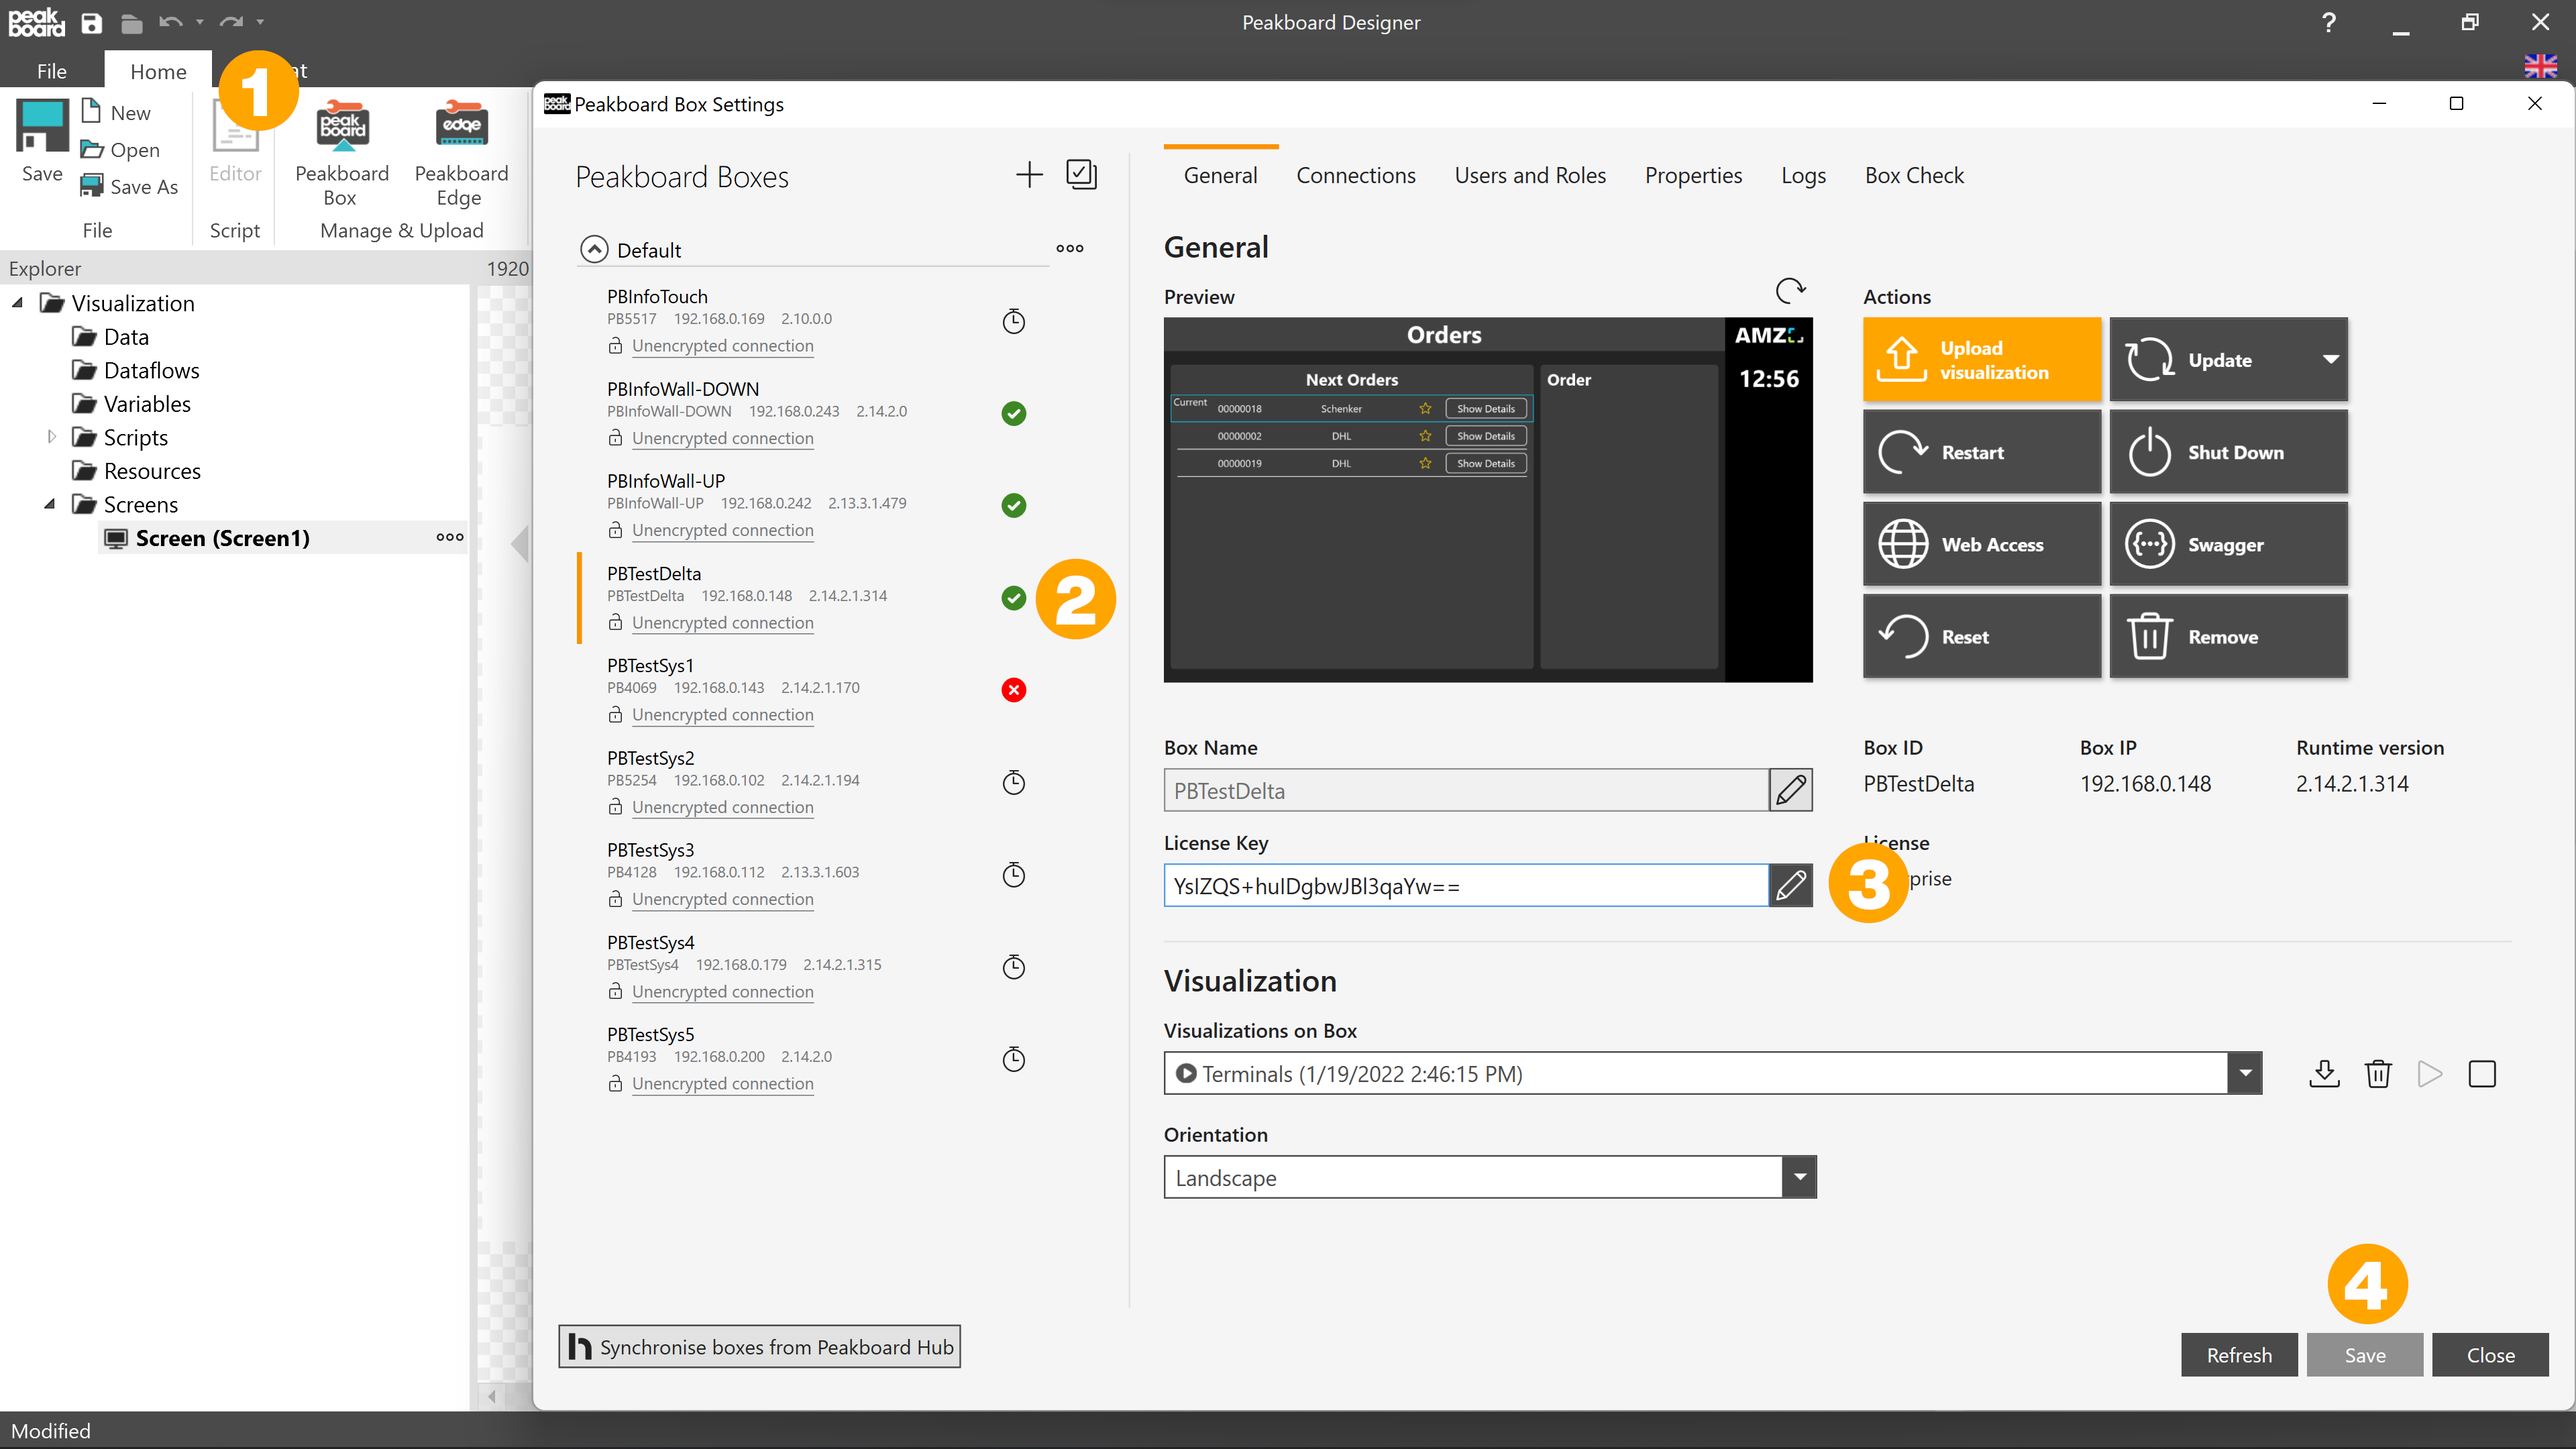
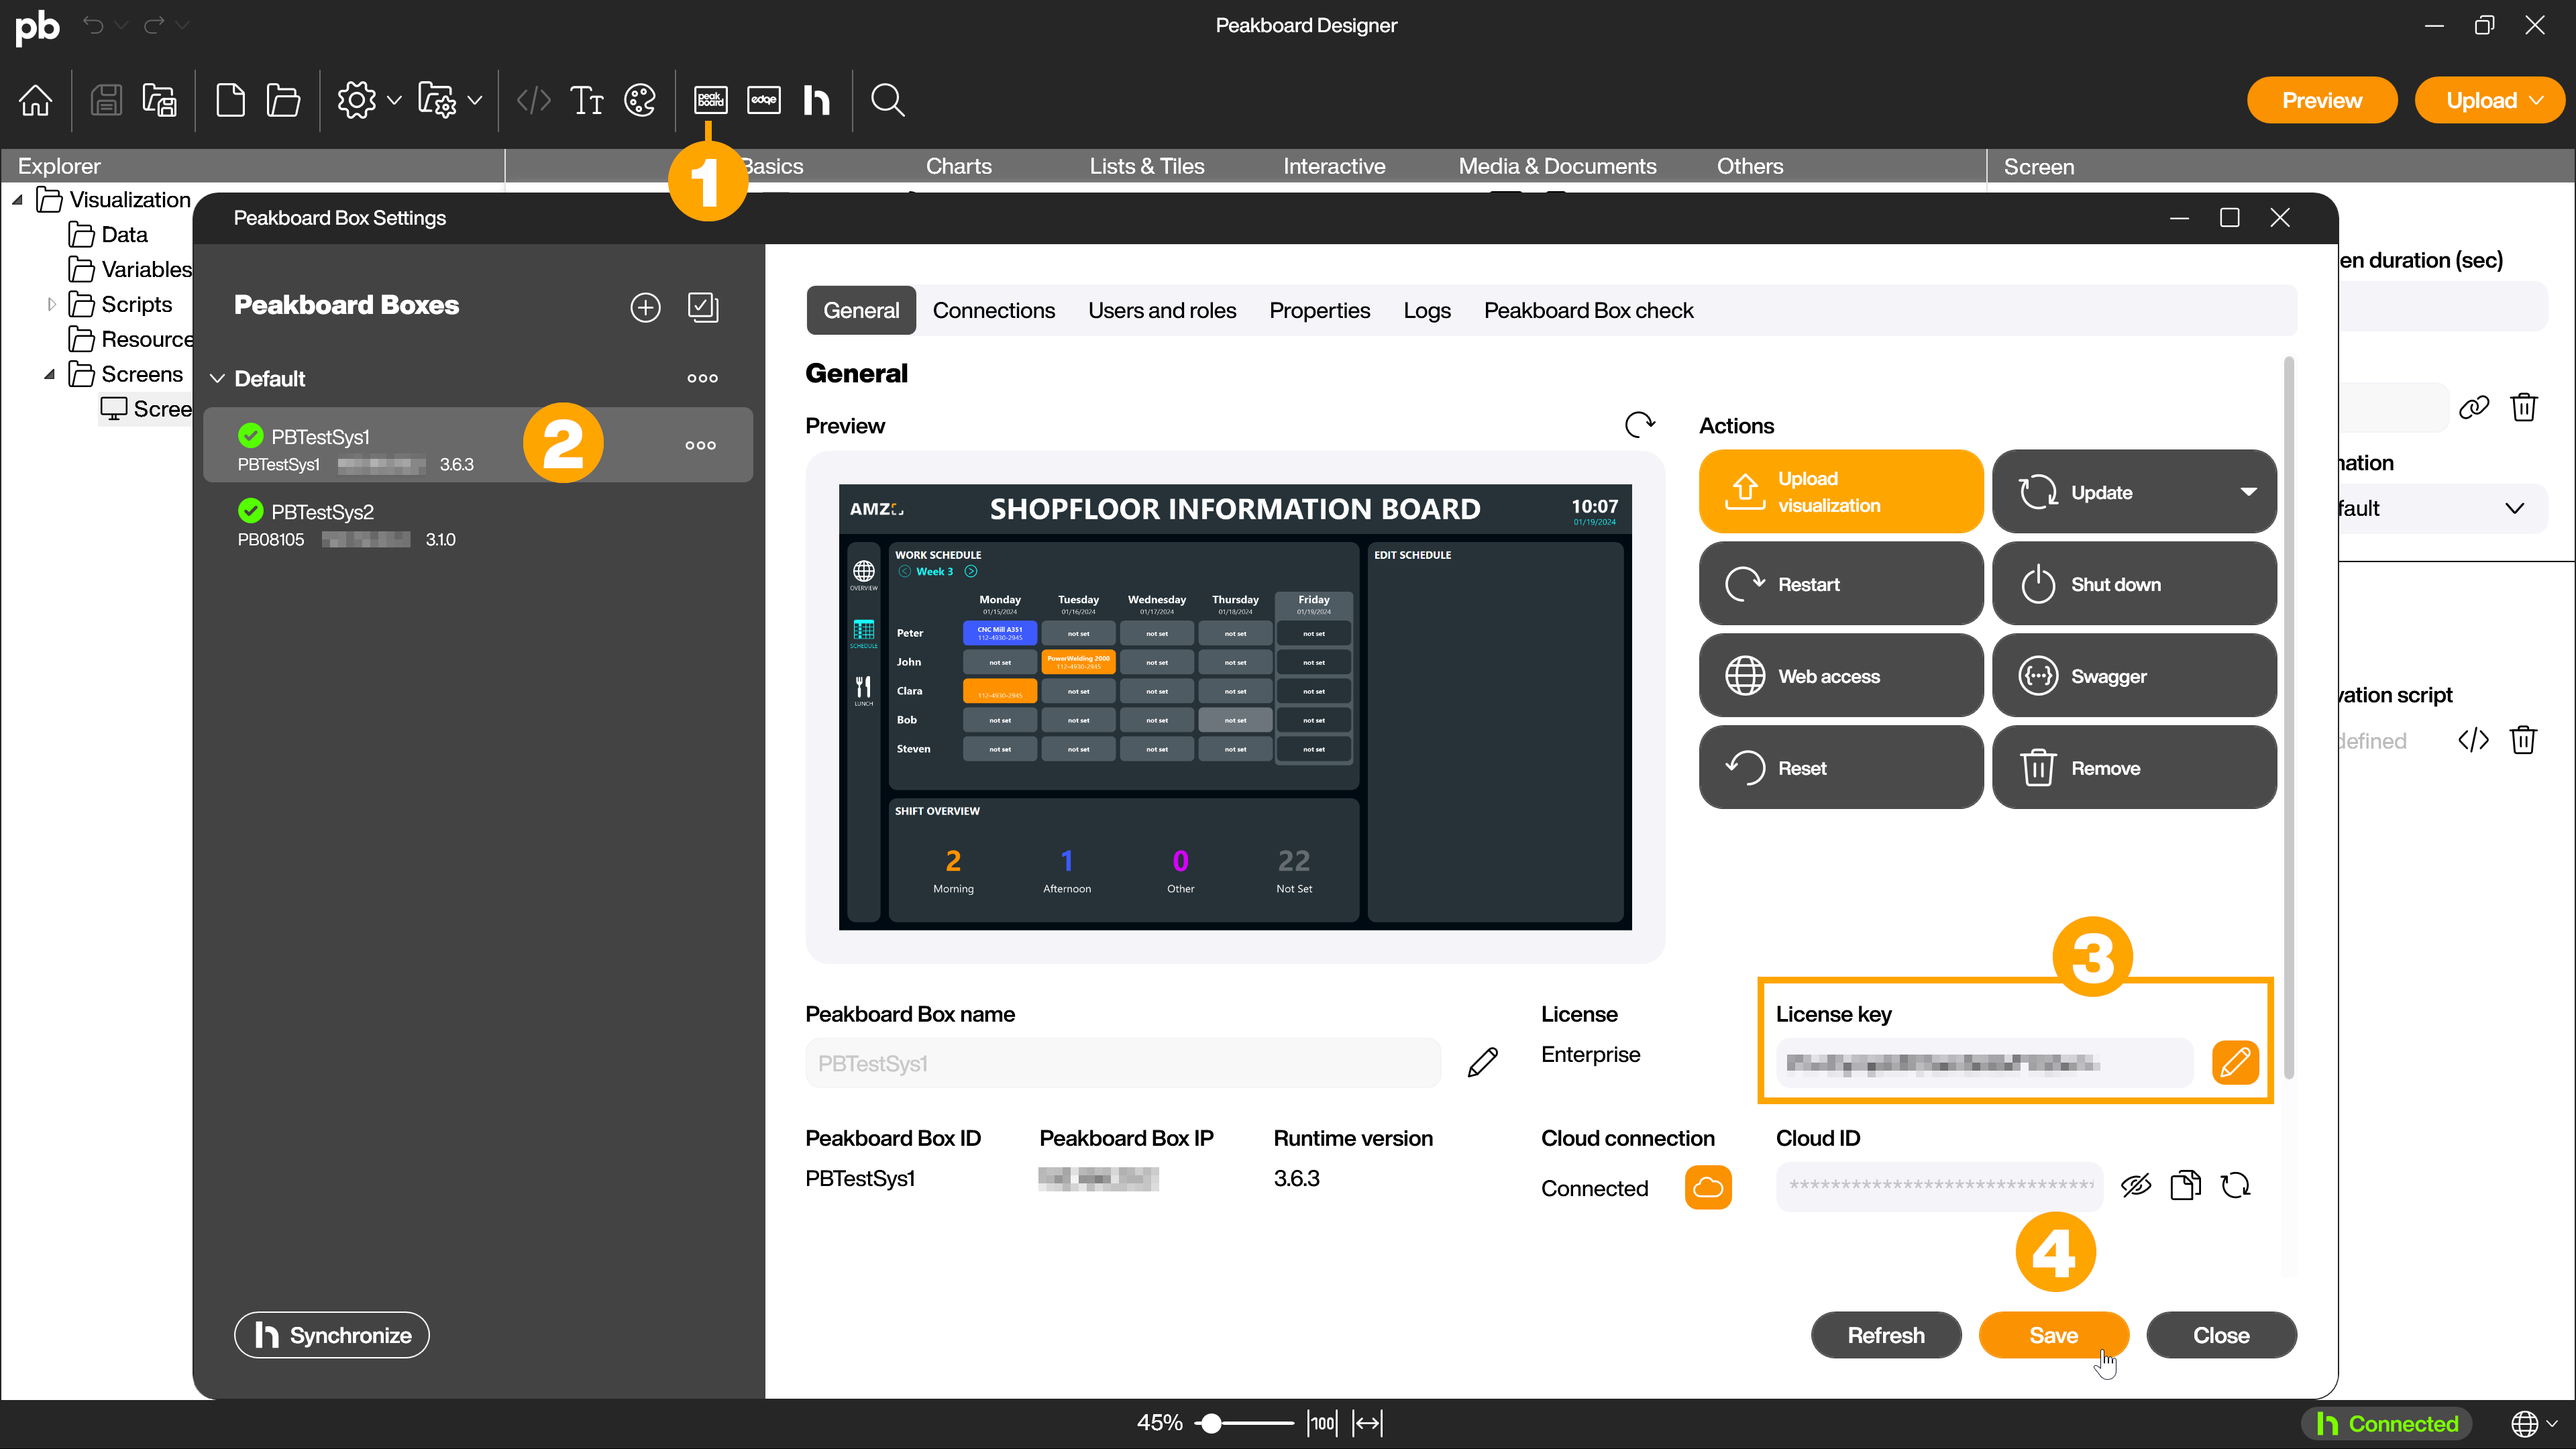
Updated screenshot in de/en license article

diff --git a/content/_administration/de-lizenz-aendern.md b/content/_administration/de-lizenz-aendern.md
@@ -22,9 +22,9 @@ Achte hierbei bitte unbedingt darauf, deinen ursprünglichen, käuflich erworben
 Nach Ablauf des Testzeitraums verliert die Testlizenz ihre Gültigkeit, wodurch die Peakboard Box mit dieser Lizenz nicht mehr genutzt werden kann.
 Um deine Peakboard Box weiter zu verwenden, musst du den Lizenzschlüssel wieder auf den vorab in der separaten Textdatei gesicherten Lizenzschlüssel ändern.
 
-Um die Lizenz einer Peakboard Box zu ändern, klicke im Peakboard Designer zunächst auf den "Peakboard Box"-Button (1).
-Im "Peakboard Box Settings"-Dialog wählst du in der linken Spalte die gewünschte Peakboard Box mit einem Linksklick aus (2). 
-Klicke im Reiter "Allgemeines" auf das Editierungssymbol hinter dem Lizenzschlüssel-Textfeld und trage im Textfeld deinen neuen Lizenzschlüssel ein (3). 
+Um die Lizenz einer Peakboard Box zu ändern, klicke im Peakboard Designer zunächst auf den Peakboard Box-Button (1).
+In den Peakboard Box Einstellungen wählst du in der linken Spalte die gewünschte Peakboard Box mit einem Linksklick aus (2).
+Klicke im Tab [Allgemeines] auf das Editierungssymbol hinter dem Lizenzschlüssel-Textfeld und trage im Textfeld deinen neuen Lizenzschlüssel ein (3).
 Um den Vorgang abzuschließen, musst du deine Änderung speichern und den Dialog schließen (4).
 
 ![Lizenz Ändern](/assets/images/admin/license/de_lizenz-aendern.png)

diff --git a/content/_administration/en-change-license.md b/content/_administration/en-change-license.md
@@ -23,9 +23,9 @@ Please make sure to save your original purchased license key of your Peakboard P
 After expiration of the test period, the test license loses its validity, whereby the Peakboard Box can no longer be used with this license.
 In order to continue using your Peakboard Box, you must change the license key back to the license key previously saved in the separate text file.
 
-To change the license of a Peakboard Box, first click on the "Peakboard Box" button (1) in the Peakboard Designer.
-In the "Peakboard Box Settings" dialog, select the desired Peakboard Box in the left column by left-clicking on it (2).
-In the "General" tab, click on the edit icon behind the license key text field and enter your new license key in the text field (3).
+To change the license of a Peakboard Box, first click on the Peakboard Box button (1) in the Peakboard Designer.
+In the Peakboard Box settings, select the desired Peakboard Box in the left column by left-clicking on it (2).
+In the [General] tab, click on the edit icon behind the license key text field and enter your new license key in the text field (3).
 To complete the process, save your changes and close the dialog (4).
 
 ![Change Licence](/assets/images/admin/license/en_change-licence.png)
